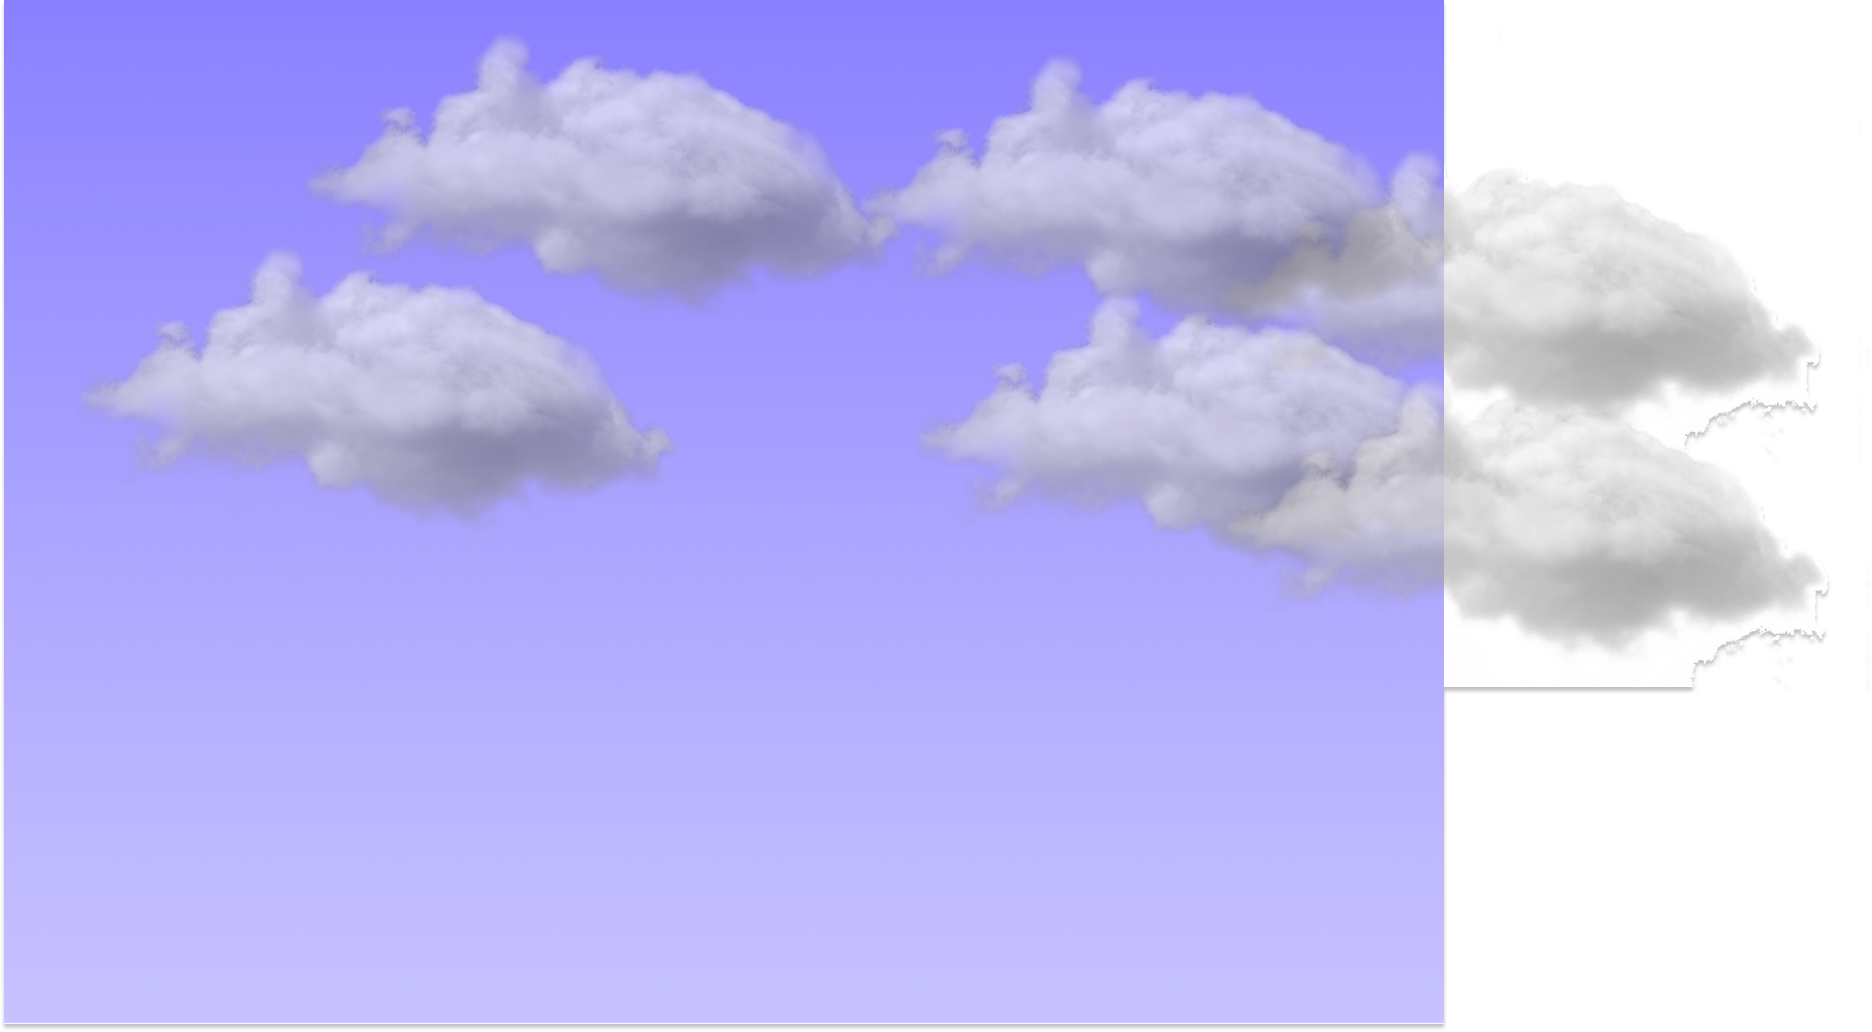
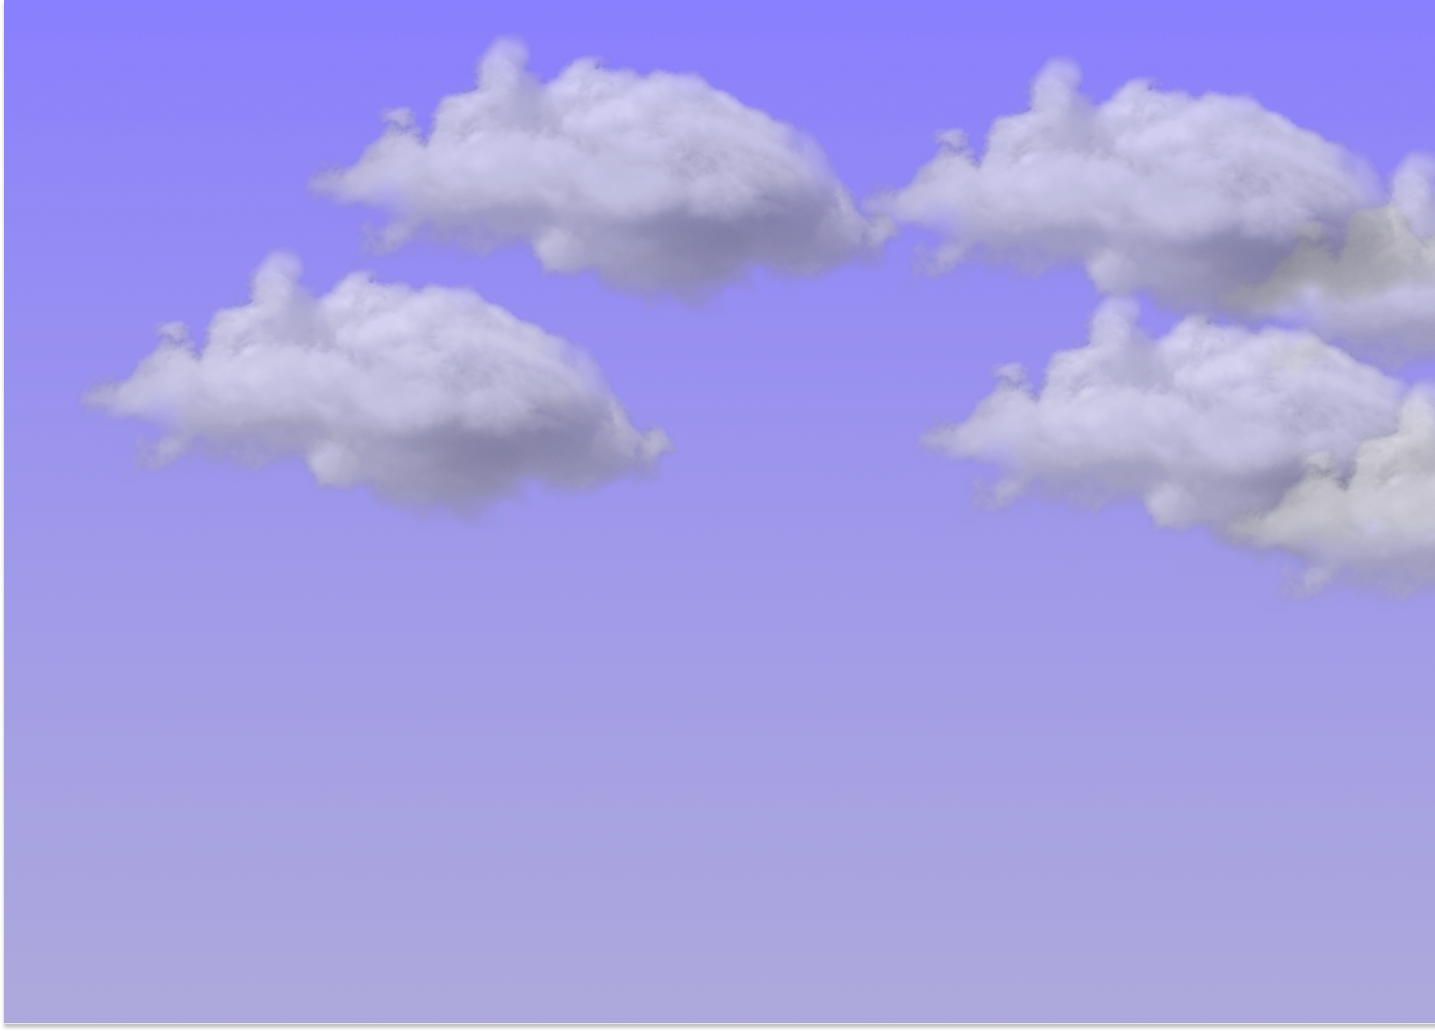
arrumando logica nublado

diff --git a/src/App.jsx b/src/App.jsx
@@ -21,6 +21,7 @@ function App() {
   const [precipitationProbDay, setPrecipitationProbDay] = useState("");
   const [temperature, setTemperature] = useState("");
   const [temperature2, setTemperature2] = useState([]);
+  const [cloudcover, setCloudcover] = useState("");
   const [min, setMin] = useState("");
   const [max, setMax] = useState("");
   const [precipitationSum, setPrecipitationSum] = useState("");
@@ -54,8 +55,7 @@ function App() {
           console.log("response1", response1.data);
           const latitude = response1.data.results[0].lat;
           const longitude = response1.data.results[0].lon;
-          const urlApi2 = `https://api.open-meteo.com/v1/forecast?latitude=${latitude}&longitude=${longitude}&hourly=temperature_2m,apparent_temperature,rain,cloudcover&daily=temperature_2m_max,temperature_2m_min,sunrise,sunset,rain_sum,precipitation_sum,precipitation_probability_min&timezone=auto`;
-          console.log("response1", response1);
+          const urlApi2 = `https://api.open-meteo.com/v1/forecast?latitude=${latitude}&longitude=${longitude}&hourly=temperature_2m,apparent_temperature,rain,cloudcover&daily=temperature_2m_max,temperature_2m_min,sunrise,sunset,rain_sum,precipitation_sum,precipitation_probability_min&timezone=auto`
           axios
             .get(urlApi2)
             .then((response2) => {
@@ -69,8 +69,14 @@ function App() {
               );
               const min = response2.data.daily.temperature_2m_min[0];
               const max = response2.data.daily.temperature_2m_max[0];
-              const minSemana = response2.data.daily.temperature_2m_min;
-              const maxSemana = response2.data.daily.temperature_2m_max;
+              const minSemana = response2.data.daily.temperature_2m_min.slice(
+                1,
+                7
+              );
+              const maxSemana = response2.data.daily.temperature_2m_max.slice(
+                1,
+                7
+              );
               const sunriseSemana = response2.data.daily.sunrise;
               const sunsetSemana = response2.data.daily.sunset;
               const sunrise = response2.data.daily.sunrise[0];
@@ -79,19 +85,23 @@ function App() {
               const rainDaily = response2.data.daily.rain_sum[0];
               const tempAparente =
                 response2.data.hourly.apparent_temperature[0];
-              const cloudcover = response2.data.hourly.cloudcover[0];
+              const cloudcover = response2.data.hourly.cloudcover;
               const precipitationSumDay =
                 response2.data.daily.precipitation_sum[0];
-              const precipitationSum = response2.data.daily.precipitation_sum;
+              const precipitationSum = response2.data.daily.precipitation_sum.slice(
+                1,
+                7
+              );
               const precipitationProb =
                 response2.data.daily.precipitation_probability_min;
               const precipitationProbDay =
                 response2.data.daily.precipitation_probability_min[0];
-
+console.log("cloud", cloudcover)
               const sunriseDate = new Date(sunrise);
               const sunsetDate = new Date(sunset);
 
               setDadosApi(data);
+              setCloudcover(cloudcover)
               setMinSemana(minSemana);
               setMaxSemana(maxSemana);
               setTemperature(temperature);
@@ -123,7 +133,8 @@ function App() {
     <Fragment>
         <Background className='background' precipitationSumDay={precipitationSumDay}
           sunrise={formatter.format(sunriseDate)}
-          sunset={formatter.format(sunsetDate)} />
+          sunset={formatter.format(sunsetDate)}
+          cloudcover={cloudcover} />
       <div className="body">
         <div className="mainEsq">
           <div className="cloudsIcon">
@@ -161,6 +172,7 @@ function App() {
                 <div className="icon_min_max">
                     <IconeTemp
                       precipitationSumDay={precipitationSumDay}
+                      cloudcover={cloudcover}
                       sunrise={formatter.format(sunriseDate)}
                       sunset={formatter.format(sunsetDate)}
                     />
@@ -184,6 +196,7 @@ function App() {
             <DiasDaSemana
               maxSemana={maxSemana}
               minSemana={minSemana}
+              cloudcover={cloudcover}
               precipitationProb={precipitationProb}
               precipitationSum={precipitationSum}
               sunriseSemana={sunriseSemana}

diff --git a/src/Components/IconeTemp.jsx b/src/Components/IconeTemp.jsx
@@ -1,4 +1,3 @@
-
 import Lottie from 'lottie-react'
 import diaChuva from '../assets/icones/chuvaDia.json'
 import noiteChuva from '../assets/icones/chuvaNoite.json'
@@ -8,27 +7,30 @@ import diaNum from '../assets/icones/diaNum.json'
 import diaBom from '../assets/icones/diaBom.json'
 
 function IconeTemp(props) {
-  const { precipitationSumDay, sunset, sunrise } = props
+  const { precipitationSumDay, sunset, sunrise, cloudcover } = props
   const hoje = new Date()
   const hours = hoje.getHours().toString().padStart(2, '0')
-  // const minutes = hoje.getMinutes().toString().padStart(2, '0')
-  // const time = `${hours}:${minutes}`
   const horaSunrise = sunrise.split(':')[0]
   const horaSunset = sunset.split(':')[0]
+  const cloudcoverHour = cloudcover[hours]
 
-  if (precipitationSumDay >= 5 && hours >= horaSunset && hours > horaSunrise) {
-    return (<Lottie className='divIconeTemp' animationData={noiteChuva} />)
-  } else if (precipitationSumDay < 5 && precipitationSumDay > 3 && hours >= horaSunset && hours > horaSunrise) {
-    return (<Lottie className='divIconeTemp' animationData={noiteNum} />)
-  } else if (precipitationSumDay <= 3 && hours >= horaSunset && hours > horaSunrise) {
-    return (<Lottie className='divIconeTemp' animationData={noiteBoa} />)
-  } else if (precipitationSumDay >= 5 && hours < horaSunset && hours >= horaSunrise) {
-    return (<Lottie className='divIconeTemp' animationData={diaChuva} />)
-  } else if (precipitationSumDay < 5 && precipitationSumDay > 3 && hours < horaSunset && hours >= horaSunrise) {
-    return (<Lottie className='divIconeTemp' animationData={diaNum} />)
+  let animationData = null
+
+  if (cloudcoverHour> 40 && precipitationSumDay >= 5 && hours >= horaSunset && hours > horaSunrise) {
+    animationData = noiteChuva
+  } else if (cloudcoverHour> 40 && precipitationSumDay < 5 && hours >= horaSunset && hours > horaSunrise) {
+    animationData = noiteNum
+  } else if (cloudcoverHour< 40 && precipitationSumDay <= 3 && hours >= horaSunset && hours > horaSunrise) {
+    animationData = noiteBoa
+  } else if (cloudcoverHour> 40 && precipitationSumDay >= 5 && hours < horaSunset && hours >= horaSunrise) {
+    animationData = diaChuva
+  } else if (cloudcoverHour> 40 && precipitationSumDay < 5 && hours < horaSunset && hours >= horaSunrise) {
+    animationData = diaNum
   } else {
-    return (<Lottie className='divIconeTemp' animationData={diaBom} />)
+    animationData = diaBom
   }
+
+  return <Lottie className='divIconeTemp' animationData={animationData} />
 }
 
 export default IconeTemp

diff --git a/src/Components/Background.jsx b/src/Components/Background.jsx
@@ -6,28 +6,29 @@ import diaNum from '../assets/Backgrounds/DiaNub.png'
 import diaBom from '../assets/Backgrounds/DiaSol.png'
 
 function Background(props) {
-  const { precipitationSumDay, sunset, sunrise } = props
+  const { precipitationSumDay, sunset, sunrise, cloudcover } = props
   const hoje = new Date()
   const hours = hoje.getHours().toString().padStart(2, '0')
   // const minutes = hoje.getMinutes().toString().padStart(2, '0')
   // const time = `${hours}:${minutes}`
   const horaSunrise = sunrise.split(':')[0]
   const horaSunset = sunset.split(':')[0]
+  const cloudcoverHour = cloudcover[hours]
 
-  if (precipitationSumDay >= 5 && hours >= horaSunset && hours > horaSunrise) {
+  if (cloudcoverHour> 40 && precipitationSumDay >= 5 && hours >= horaSunset && hours > horaSunrise) {
     return (<div className='background'>
     <img src={noiteChuva} />
   </div>)
-  } else if (precipitationSumDay < 5 && precipitationSumDay > 3 && hours >= horaSunset && hours > horaSunrise) {
+  } else if (cloudcoverHour> 40 && precipitationSumDay < 5 && hours >= horaSunset && hours > horaSunrise) {
     return (<div className='background'>
     <img src={noiteNum} /></div>)
-  } else if (precipitationSumDay <= 3 && hours >= horaSunset && hours > horaSunrise) {
+  } else if (cloudcoverHour< 40 && precipitationSumDay <= 3 && hours >= horaSunset && hours > horaSunrise) {
     return (<div className='background'>
     <img src={noiteBoa} /></div>)
-  } else if (precipitationSumDay >= 5 && hours < horaSunset && hours >= horaSunrise) {
+  } else if (cloudcoverHour> 40 && precipitationSumDay >= 5 && hours < horaSunset && hours >= horaSunrise) {
     return (<div className='background'>
     <img src={diaChuva} /></div>)
-  } else if (precipitationSumDay < 5 && precipitationSumDay > 3 && hours < horaSunset && hours >= horaSunrise) {
+  } else if (cloudcoverHour> 40 && precipitationSumDay < 5 && hours < horaSunset && hours >= horaSunrise) {
     return (<div className='background'>
     <img src={diaNum} /></div>)
   } else {

diff --git a/src/Components/DiasDaSemana.jsx b/src/Components/DiasDaSemana.jsx
@@ -1,9 +1,6 @@
 import React, { Fragment } from "react";
 import Lottie from "lottie-react";
 import diaChuva from "../assets/icones/chuvaDia.json";
-import noiteChuva from "../assets/icones/chuvaNoite.json";
-import noiteNum from "../assets/icones/noiteNum.json";
-import noiteBoa from "../assets/icones/noiteBoa.json";
 import diaNum from "../assets/icones/diaNum.json";
 import diaBom from "../assets/icones/diaBom.json";
 
@@ -11,9 +8,12 @@ function DiasDaSemana(props) {
   const {
     maxSemana,
     minSemana,
-    precipitationSum
+    precipitationSum,
+    cloudcover
   } = props;
 
+  let hours = 12;
+  let cloudcoverHour = []
   const diaSemana = [
     "Domingo",
     "Segunda-feira",
@@ -31,6 +31,8 @@ function DiasDaSemana(props) {
   while (diasDaSemana.length < diaSemana.length - 1) {
     diasDaSemana.push(diaSemana[i]);
     i = (i + 1) % 7;
+    hours+=24
+   cloudcoverHour.push(cloudcover[hours])
   }
 
   return (
@@ -38,12 +40,13 @@ function DiasDaSemana(props) {
       <div className="bodyDiasDaSemana">
         {Array.isArray(diasDaSemana) &&
         Array.isArray(minSemana) &&
+        Array.isArray(cloudcoverHour) &&
         Array.isArray(maxSemana) ? (
           diasDaSemana.map((dia, index) => {
             let icone;
 
             if (
-              precipitationSum[index] >= 5
+              cloudcoverHour[index]> 40 && precipitationSum[index] >= 5
             ) {
               icone = (
                 <div className="animationIconSemana">
@@ -51,8 +54,7 @@ function DiasDaSemana(props) {
                 </div>
               );
             } else if (
-              precipitationSum[index] < 5 &&
-              precipitationSum[index] > 3
+              cloudcoverHour[index]> 40 && precipitationSum[index] < 5
             ) {
               icone = (
                 <div className="animationIconSemana">

diff --git a/src/Components/TempHora.jsx b/src/Components/TempHora.jsx
@@ -7,9 +7,6 @@ const TempHora = (props) => {
   const currentMinute = new Date().getTime()
   const next12Hours = [];
 
-  console.log("hora", currentHour)
-  console.log("comp", currentMinute)
-
   for (let i = currentHour; i < currentHour + 20; i++) {
     const hour = i % 24; // Garante que não exceda 24 horas
     next12Hours.push(hour);

diff --git a/src/Components/Precipitation.jsx b/src/Components/Precipitation.jsx
@@ -1,7 +1,6 @@
 import React from 'react'
 
 const Preciptation = (props) => {
-  console.log("propsPre",props.precipitationSumDay)
   if(props.precipitationSumDay<5){
     return (
       <div className='componentPreciptation'>
